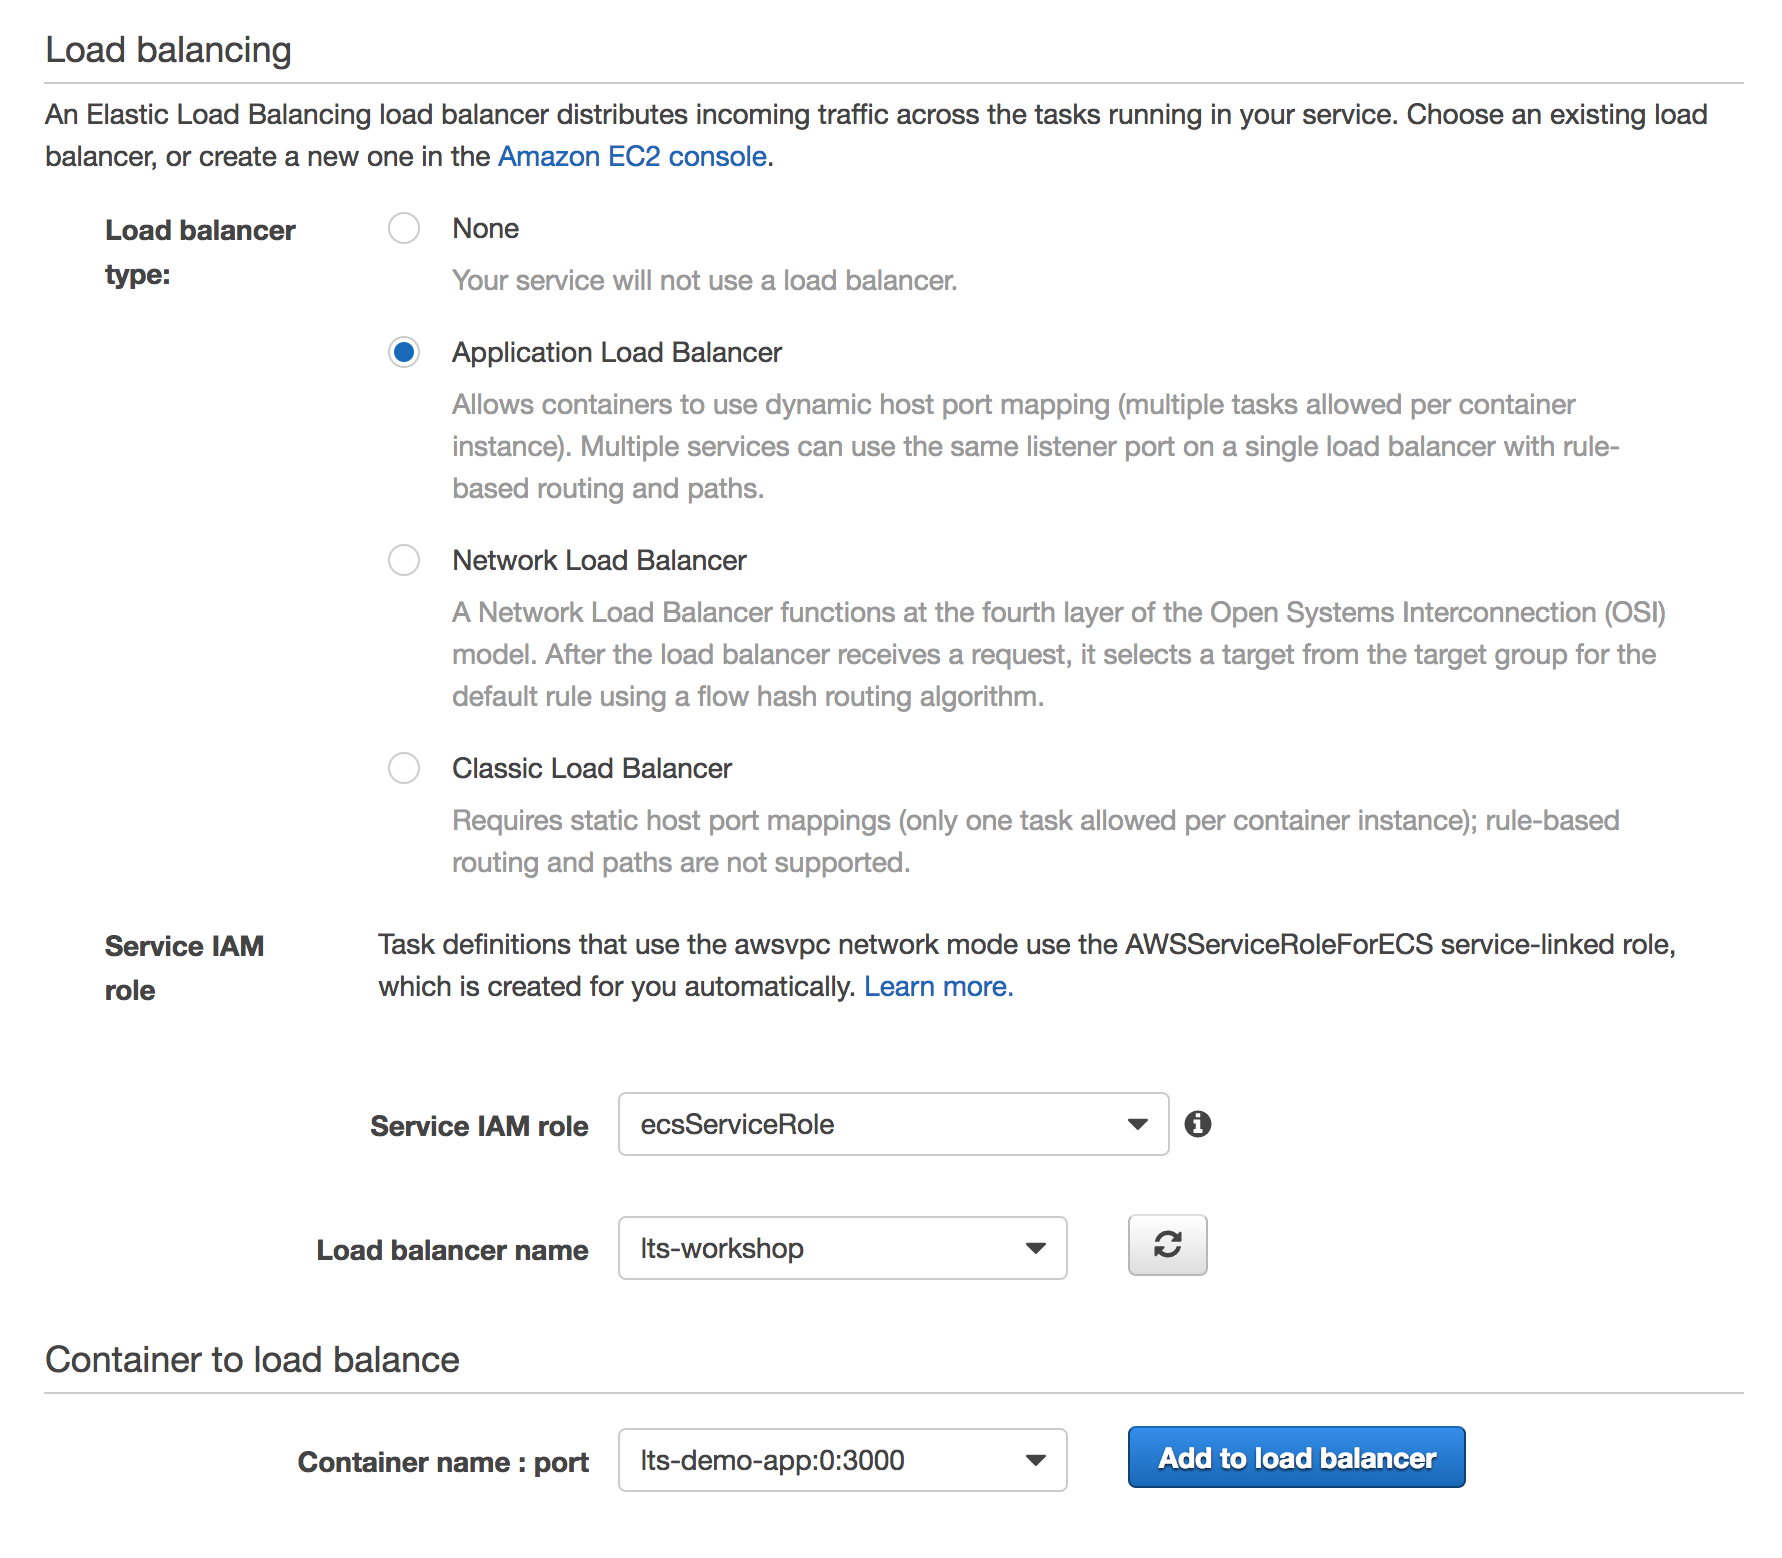
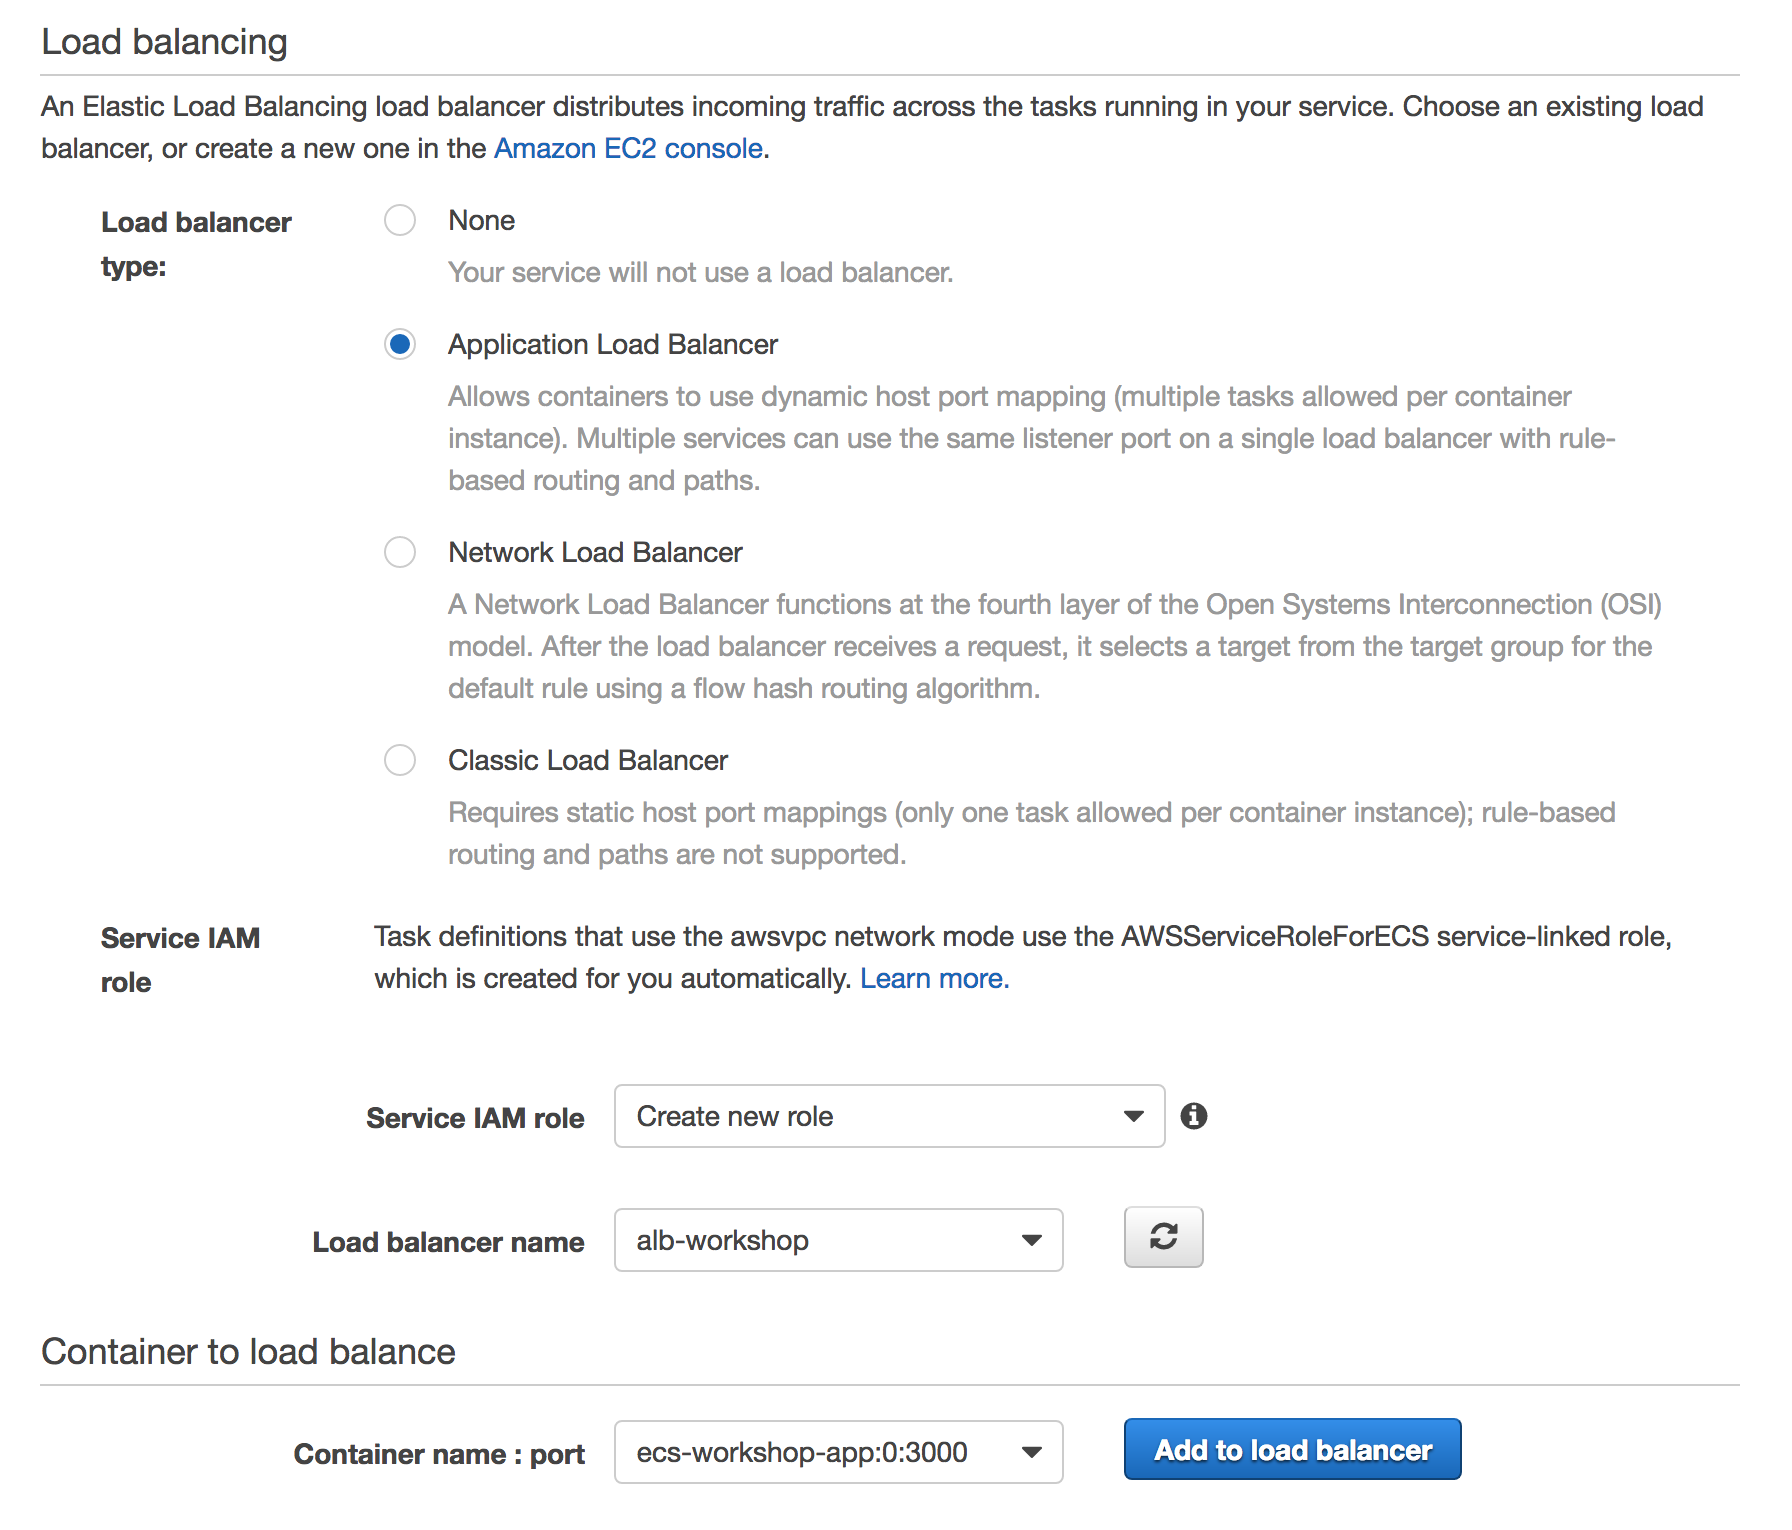
Adding content

diff --git a/04-DeployEcsCluster/README.md b/04-DeployEcsCluster/README.md
@@ -180,11 +180,23 @@ Once you've added your log driver, click in **Add** to add the container in your
 
 ## 5. Creating the Service
 
-Navigate back to the ECS console, and choose the cluster that you created during the first run wizard.  This should be named **lts-workshop**.  If you don't have a cluster named **lts-workshop**, create one following the procedures in  [Creating the cluster](https://github.com/bemer/containers-on-aws-workshop/tree/master/04-DeployEcsCluster#creating-the-cluster).
+Now that we have the description of everything we need to run our application in the `Task Definition`, the next step is to run our container using Amazon ECS. Let's do it by creating a `Service`.
 
-Next, you'll need to create your app service.  From the cluster detail page, choose **Services** > **Create**.
+In ECS, a `Service` allows you to run and maintain a specified number (the "desired count") of instances of a task definition simultaneously in an Amazon ECS cluster. If any of your tasks should fail or stop for any reason, the Amazon ECS service scheduler launches another instance of your task definition to replace it and maintain the desired count of tasks in the service. You can find more information about ECS Services in the [ECS documentation](https://docs.aws.amazon.com/AmazonECS/latest/developerguide/ecs_services.html).
 
-Select `EC2` as the *Launch Type* choose the Task Definition you created in the previous section. For the purposes of this demo, we'll only start one copy of this task.  In a production environment, you will always want more than one copy of each task running for reliability and availability.
+Navigate back to the [Clusters screen](https://console.aws.amazon.com/ecs/home?region=us-east-1#/clusters) on the ECS console, and click in the cluster name **workshop-ecs-cluster** created during the first run wizard.
+
+>If you don't have a cluster named **workshop-ecs-cluster**, create one following the procedures in  [Creating the cluster](https://github.com/bemer/containers-on-aws-workshop/tree/master/04-DeployEcsCluster#2-creating-the-cluster).
+
+In the **workshop-ecs-cluster** cluster details page, click in the button **Create**, in the `Services` tab:
+
+![service creation](https://github.com/bemer/containers-on-aws-workshop/blob/master/04-DeployEcsCluster/images/service_creation.png)
+
+Select `EC2` as the `Launch Type`, and choose the Task Definition created in the previous section. For the purposes of this demo, we'll only start one copy of this task.  
+
+>In a production environment, you will always want more than one copy of each task running for reliability and availability.
+
+Name your service `ecs-service`.
 
 You can keep the default **AZ Balanced Spread** for the Task Placement Policy.  To learn more about the different Task Placement Policies, see the [documentation](http://docs.aws.amazon.com/AmazonECS/latest/developerguide/task-placement-strategies.html), or this [blog post](https://aws.amazon.com/blogs/compute/introducing-amazon-ecs-task-placement-policies/).
 
@@ -192,11 +204,11 @@ You can keep the default **AZ Balanced Spread** for the Task Placement Policy.  
 
 Click in **Next**.
 
-Under **Load balancing**, select **Application Load Balancer**. Under *Container to load balance*, select the container "*lts-workshop*" and click in **Add to load balancer**:
+Now, under `Load balancing`, select `Application Load Balancer`. Let's configure the integration between the ECS Service and the Application Load Balancer, so we will be able to access the application using the ALB. Select `Create new role` under `Service IAM role` and under`Container to load balance`, select the container `ecs-workshop-app:0:3000`. Click in **Add to load balancer**:
 
 ![add to ALB](https://github.com/bemer/containers-on-aws-workshop/blob/master/04-DeployEcsCluster/images/add_container_to_alb.png)
 
-This final step allows you to configure the container with the ALB.  When we created our ALB, we only added a listener for HTTP:80.  Select this from the dropdown as the value for **Listener**.  For **Target Group Name**, enter a value that will make sense to you later, like **lts-demo-app**.  For **Path Pattern**, the value should be **`/app*`**.  This is the route that we specified in our Python application. In the **Evaluation order**, add the number `1`.
+This final step allows you to configure the container with the ALB.  When we created our ALB, we only added a listener for HTTP:80.  Select this from the dropdown as the value for **Listener**.  For **Target Group Name**, enter a value that will make sense to you later, like **ecs-workshop**.  For **Path Pattern**, the value should be **`/app*`**.  This is the route that we specified in our Python application. In the **Evaluation order**, add the number `1`.
 
 Finally, **Health check path**, use the value `/app`.
 
@@ -204,8 +216,10 @@ Finally, **Health check path**, use the value `/app`.
 
 If the values look correct, click **Next Step**.
 
-Since we will not use Auto Scaling in this tutorial, in the **Set Auto Scaling** screen, just click in **Next Step** and after reviewing your configurations, click in **Create Service**.
+Since we will not use Auto Scaling in this tutorial, in the `Set Auto Scaling` screen, just click in **Next Step** and after reviewing your configurations, click in **Create Service**.
 
+
+# Continuar daqui
 
 ## 6. Testing our service deployments from the console and the ALB
 
